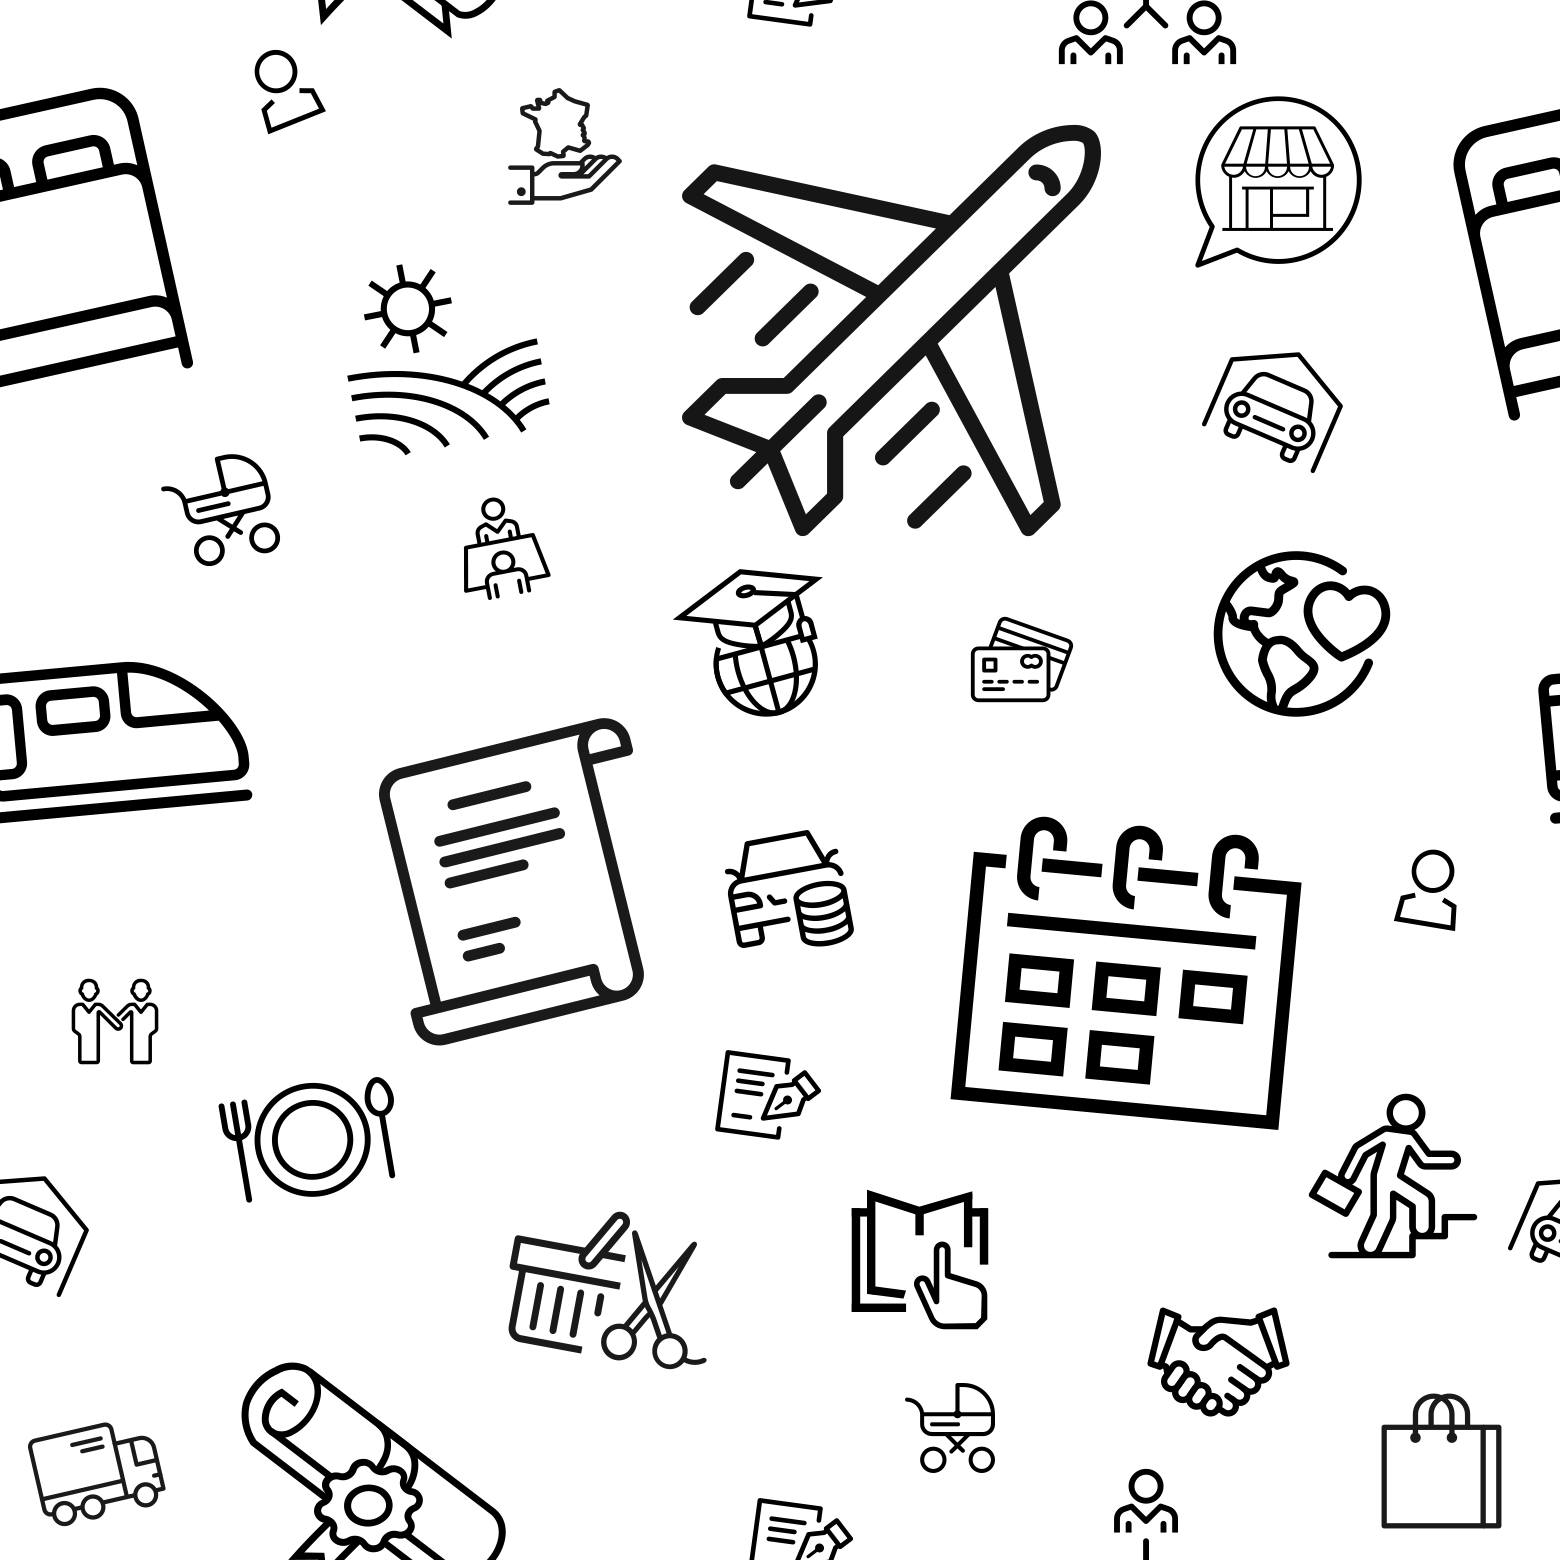
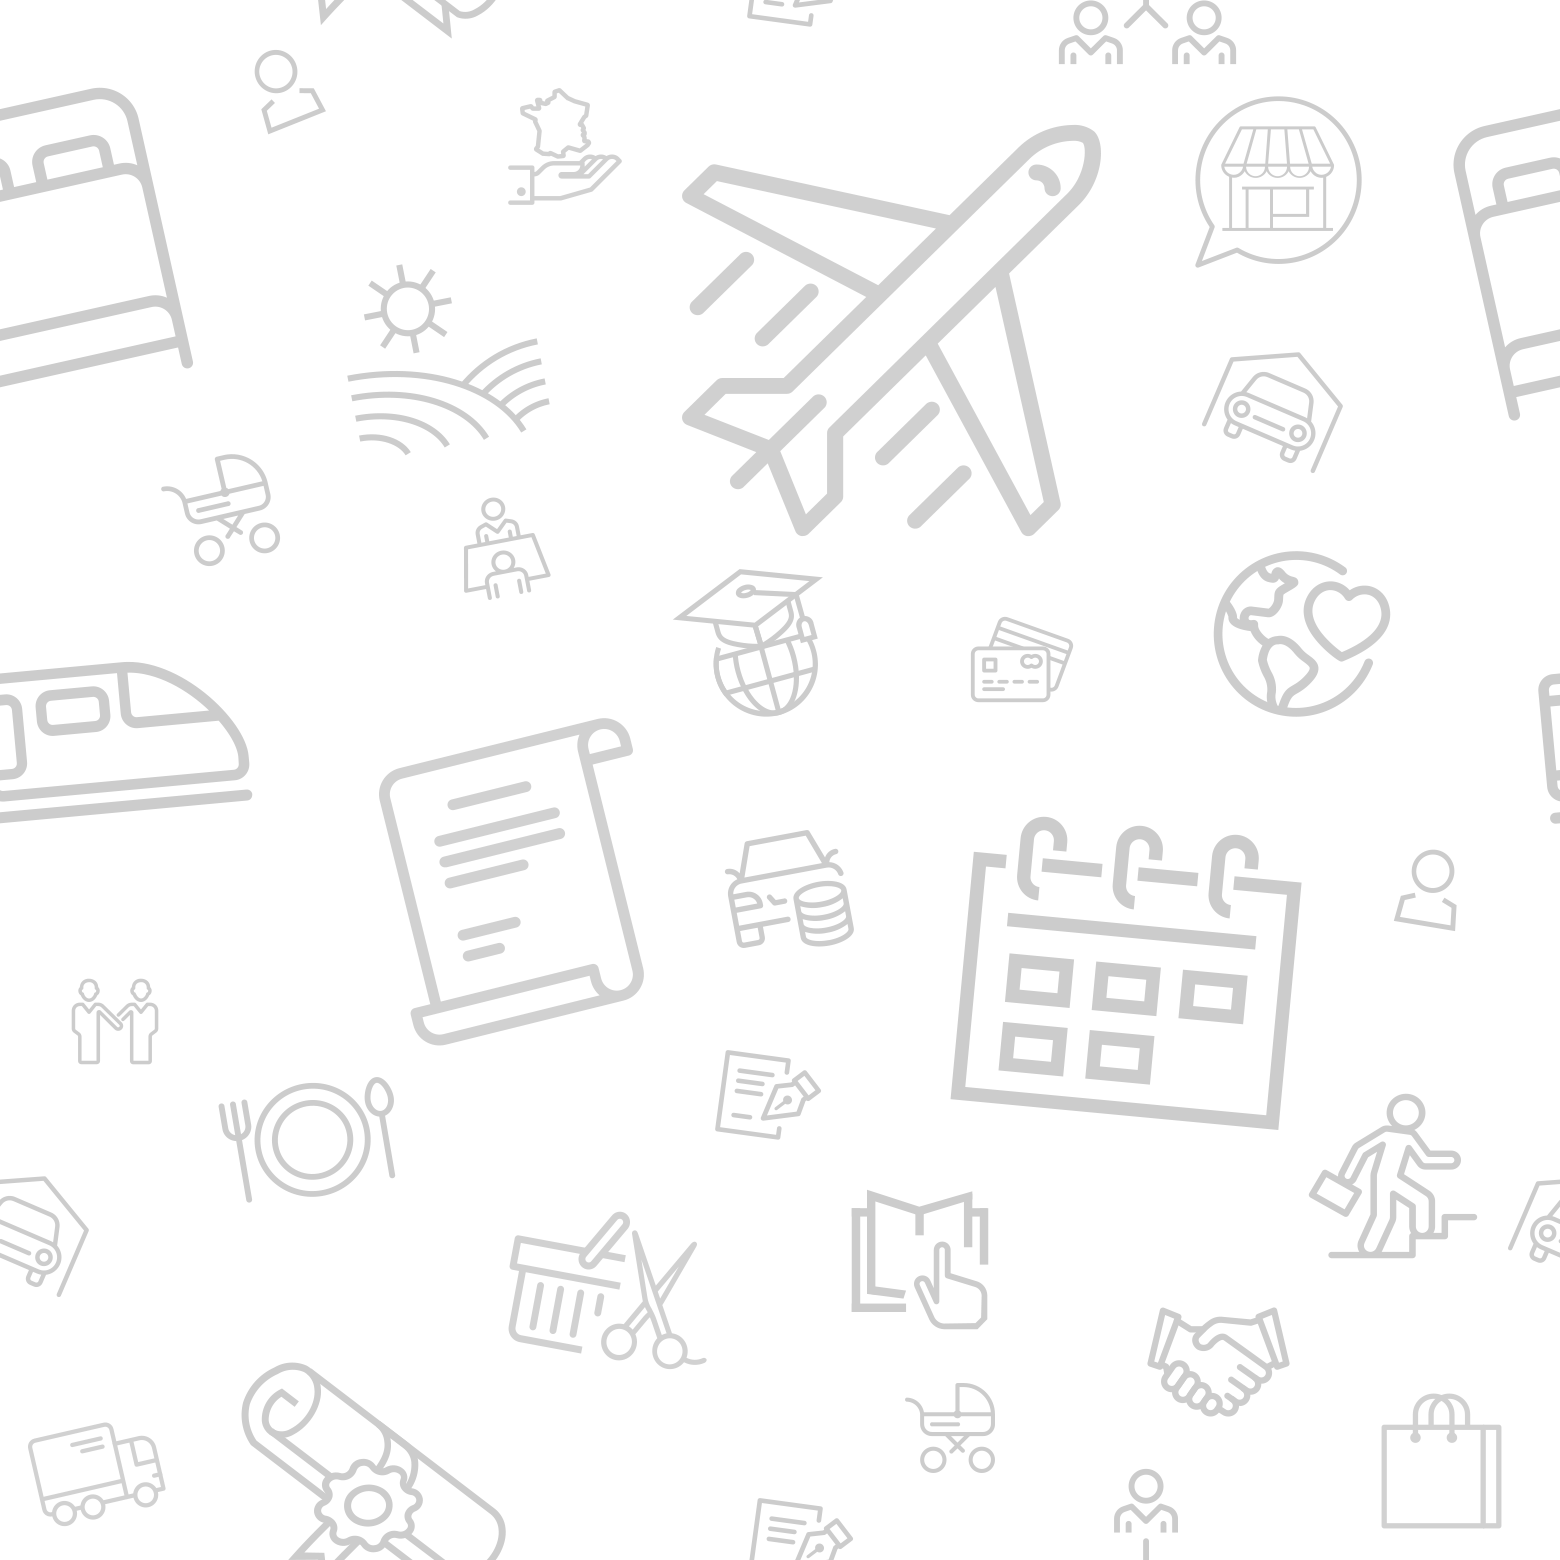
better images

diff --git a/app/assets/stylesheets/inuit/components/_c-detail.scss b/app/assets/stylesheets/inuit/components/_c-detail.scss
@@ -30,7 +30,7 @@
 }
 
 .c-detail-title-inside {
-  background-image: url('https://res.cloudinary.com/bdavidxyz-com/image/upload/o_20/v1511186245/backgroundrepeat_purbr9.png');
+  background-image: url(image_path("backgroundrepeat2.png"));
   background-size: 240px 240px;
   background-repeat: repeat-x;  
   height: 100%;
